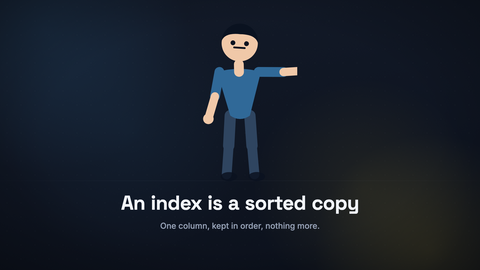
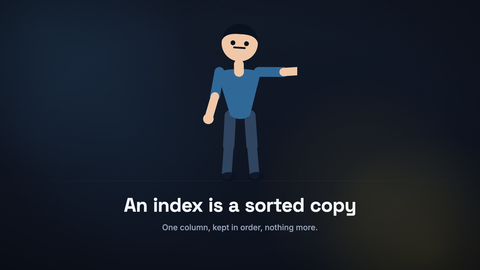
snippets: stop offering runtimes a template cannot satisfy, and free the lower third from the camera
Three things were stopping clips at the plan stage, none of them mysterious.

A story was created at a twenty-second runtime from the studio. Twenty seconds
is about fifty-eight words; the story template is built from eight beats and
its own validator demands ten words each. There is no plan that satisfies both,
so the model was corrected three times toward a target that did not exist and
the run died having spent a chunk of the day's tokens finding out. Templates
now declare the runtime they can actually satisfy, the spec rejects a shorter
one immediately with the arithmetic in the message, and the studio's picker
only offers what the chosen template can do — plus a two-minute option, which
`story` needed and nothing offered.

Snippet planning also moves to gpt-4o-mini. Groq's free tier is 100k tokens a
day and one snippet plan is about 14k, so a handful of clips exhausts it and
every later plan fails on a 429 that reads like a bug in the planner. That is
exactly how the day went.

Finally, the story template's lower third rode the camera. It was laid out in
world space, so a push scaled it outward and down, through the band the
burned-in captions occupy — the finished clip had its own supporting line
printed across the karaoke captions on five shots of eight. A lower third does
not move with the camera in any film, and keeping it in frame space inside the
caption-safe margin is both the right grammar and the only way it cannot
collide.

Changed region(s): [[0.25, 0.7111, 0.75, 0.8], [0.3125, 0.8296, 0.6875, 0.8593]]

diff --git a/studio/src/pages/SnippetsPage.tsx b/studio/src/pages/SnippetsPage.tsx
@@ -31,10 +31,14 @@ const QUIET_BTN = "rounded px-2 py-1 text-ink-500 hover:bg-ink-800 hover:text-in
 
 // Runtimes are targets the plan aims at, not guarantees: the model writes to
 // what the topic needs and can run over, so the labels say "about".
+/** The shared default when a template does not ask for its own. */
+const DEFAULT_TARGET_SEC = 45;
+
 const TARGETS = [
   { sec: 20, label: "~20s", hint: "One idea" },
   { sec: 45, label: "~45s", hint: "Idea + example" },
   { sec: 75, label: "~75s", hint: "Walk it through" },
+  { sec: 120, label: "~2 min", hint: "A directed short with an arc" },
 ];
 
 /**
@@ -267,7 +271,7 @@ export function SnippetsPage() {
   const [prompt, setPrompt] = useState("");
   const [title, setTitle] = useState("");
   const [template, setTemplate] = useState<string | null>(null);
-  const [targetSec, setTargetSec] = useState(45);
+  const [targetSec, setTargetSec] = useState<number | null>(null);
   const [captions, setCaptions] = useState<"off" | "on">("off");
   const [mode, setMode] = useState<"dark" | "light">("dark");
   const [busy, setBusy] = useState(false);
@@ -284,6 +288,29 @@ export function SnippetsPage() {
   // choice the user has no opinion about yet.
   const chosen = template ?? templates.data?.[0]?.name ?? null;
   const chosenTemplate = templates.data?.find((t) => t.name === chosen);
+
+  /**
+   * The runtimes this template can actually satisfy.
+   *
+   * Not every template can be any length. `story` is built from eight or more
+   * beats, so a twenty-second story is not a short clip — it is a plan whose
+   * own rules contradict each other, and it fails after three correction
+   * rounds having spent a chunk of the day's tokens finding out. Offering the
+   * option was the bug; the picker now only shows what the template can do.
+   */
+  const runtimes = TARGETS.filter((t) => t.sec >= (chosenTemplate?.min_target_sec ?? 0));
+  // Prefer the template's own default, then the shared one if this template
+  // can satisfy it, and only then the shortest it can. Falling straight to the
+  // shortest made every template default to the briefest clip it allowed.
+  const fallbackRuntime =
+    chosenTemplate?.default_target_sec ||
+    runtimes.find((t) => t.sec === DEFAULT_TARGET_SEC)?.sec ||
+    runtimes[0]?.sec ||
+    DEFAULT_TARGET_SEC;
+  // An explicit choice wins, but only while it is still valid for the template
+  // the user has since picked.
+  const effectiveTargetSec =
+    targetSec !== null && runtimes.some((t) => t.sec === targetSec) ? targetSec : fallbackRuntime;
 
   /**
    * Picking a template fills the prompt with that template's own example.
@@ -319,13 +346,14 @@ export function SnippetsPage() {
         prompt: text,
         title: title.trim() || undefined,
         template: chosen,
-        target_sec: targetSec,
+        target_sec: effectiveTargetSec,
         captions,
         mode,
         plan_only: planOnly,
       });
       setPrompt("");
       setTitle("");
+      setTargetSec(null);
       setOpen(created.id);
       snippets.reload();
     } catch (err) {
@@ -391,9 +419,19 @@ export function SnippetsPage() {
 
         <div className="mt-3 flex flex-wrap items-center gap-3">
           <Segmented
-            value={targetSec}
+            value={effectiveTargetSec}
             onChange={setTargetSec}
-            options={TARGETS.map((t) => ({ value: t.sec, label: t.label, hint: t.hint }))}
+            options={
+              runtimes.length > 0
+                ? runtimes.map((t) => ({ value: t.sec, label: t.label, hint: t.hint }))
+                : [
+                    {
+                      value: fallbackRuntime,
+                      label: `~${fallbackRuntime}s`,
+                      hint: "This template's own length",
+                    },
+                  ]
+            }
           />
           <Segmented
             value={mode}

diff --git a/studio/src/pages/SnippetsPage.test.tsx b/studio/src/pages/SnippetsPage.test.tsx
@@ -18,6 +18,8 @@ const TEMPLATES: SnippetTemplateInfo[] = [
     description: "An editor opens, code types itself in, and the terminal runs it for real.",
     example: "How for loops work in Python",
     shows_code: true,
+    min_target_sec: 0,
+    default_target_sec: 0,
   },
   {
     name: "whiteboard",
@@ -25,6 +27,8 @@ const TEMPLATES: SnippetTemplateInfo[] = [
     description: "A hand-drawn board that fills in as you talk.",
     example: "Why HTTP caching matters",
     shows_code: false,
+    min_target_sec: 0,
+    default_target_sec: 0,
   },
 ];
 
@@ -210,4 +214,38 @@ it("sends an edited title, and omits an empty one", async () => {
   fireEvent.click(screen.getByRole("button", { name: "Generate clip" }));
   await waitFor(() => expect(create).toHaveBeenCalledTimes(2));
   expect(create.mock.calls[1][0].title).toBe("My Own Title");
+});
+
+// A template that cannot be short must not be offered a short runtime. Offering
+// one cost a real user three correction rounds and a day's token budget to find
+// out that eight beats do not fit in twenty seconds.
+it("only offers runtimes the chosen template can satisfy", async () => {
+  vi.spyOn(api, "snippetTemplates").mockResolvedValue([
+    ...TEMPLATES,
+    {
+      name: "story",
+      title: "Directed short",
+      description: "A one-to-two-minute piece.",
+      example: "How a database index finds your row",
+      shows_code: false,
+      min_target_sec: 60,
+      default_target_sec: 90,
+    },
+  ]);
+  vi.spyOn(api, "snippets").mockResolvedValue(SNIPPETS);
+  vi.spyOn(api, "runStatus").mockResolvedValue({ running: false });
+
+  renderPage();
+  await screen.findByText("Directed short");
+
+  // The short runtimes are on offer for the default template...
+  expect(screen.queryByRole("button", { name: "~20s" })).toBeTruthy();
+
+  fireEvent.click(screen.getByRole("button", { name: /Directed short/ }));
+
+  // ...and gone once a template that cannot be short is chosen.
+  expect(screen.queryByRole("button", { name: "~20s" })).toBeNull();
+  expect(screen.queryByRole("button", { name: "~45s" })).toBeNull();
+  expect(screen.queryByRole("button", { name: "~75s" })).toBeTruthy();
+  expect(screen.queryByRole("button", { name: "~2 min" })).toBeTruthy();
 });

diff --git a/renderer/src/components/StoryScene.tsx b/renderer/src/components/StoryScene.tsx
@@ -4,6 +4,7 @@ import {FPS} from '../types';
 import {ResolvedTheme} from '../theme/theme';
 import {FIGURE_BOX, figureFor, type FigurePalette} from './artwork';
 import {CAST_FEET, CAST_VIEW, Character, livePose, poseByName, type CastPalette, type Expression} from './cast';
+import {CAPTION_SAFE, FRAME_H, SAFE_X} from './Stage';
 import {WORLD, camAt, camTransform, parallaxCam} from './camera';
 
 // StoryScene is one shot of a directed piece.
@@ -277,14 +278,23 @@ export const StoryScene: React.FC<{
           </div>
         )}
 
-        {/* Type: a centred lower third, or the middle of the stage when there
-            is nothing else on it. */}
+      </AbsoluteFill>
+
+      {/* Type is a lower third, and a lower third does not ride the camera.
+          Keeping it in world space had it drift and — worse — scale outward
+          under a push, straight through the band the burned-in captions live
+          in. It is frame-space now, inside the caption-safe margin, which is
+          both correct film grammar and the only way it can be guaranteed not
+          to collide. */}
+      <AbsoluteFill style={{pointerEvents: 'none'}}>
         <div
           style={{
             position: 'absolute',
-            left: WORLD.w * 0.1,
-            width: WORLD.w * 0.8,
-            top: plan.typeCentred ? WORLD.h * 0.4 : WORLD.h * BAND.typeY,
+            left: SAFE_X,
+            right: SAFE_X,
+            ...(plan.typeCentred
+              ? {top: '38%'}
+              : {bottom: CAPTION_SAFE + 28}),
             textAlign: 'center',
           }}
         >

diff --git a/studio/src/api/schema.d.ts b/studio/src/api/schema.d.ts
@@ -245,6 +245,8 @@ export interface components {
             description: string;
             example: string;
             shows_code: boolean;
+            min_target_sec?: number;
+            default_target_sec?: number;
         };
         SnippetSummary: {
             id: string;

diff --git a/internal/pipeline/snippet.go b/internal/pipeline/snippet.go
@@ -126,6 +126,14 @@ func (s SnippetSpec) Validate() error {
 	if s.TargetSec != 0 && (s.TargetSec < minSnippetTargetSec || s.TargetSec > maxSnippetTargetSec) {
 		return fmt.Errorf("target_sec %d is out of range (%d-%d)", s.TargetSec, minSnippetTargetSec, maxSnippetTargetSec)
 	}
+	// Caught here rather than three correction rounds later: a runtime below a
+	// template's floor is not a clip that plans badly, it is one whose rules
+	// contradict each other, and the model cannot be told anything that helps.
+	if tpl, ok := SnippetTemplates[s.Template]; ok && s.TargetSec != 0 &&
+		tpl.MinTargetSec > 0 && s.TargetSec < tpl.MinTargetSec {
+		return fmt.Errorf("the %s template needs at least %d seconds (asked for %d) — it is built from %d or more beats and a shorter clip cannot fund them",
+			s.Template, tpl.MinTargetSec, s.TargetSec, minStoryBeats)
+	}
 	return nil
 }
 
@@ -457,6 +465,12 @@ style:
   captions: "on"
 pipeline:
   video_only: true
+  # Snippet planning runs on gpt-4o-mini rather than the default Groq model.
+  # Groq's free tier is 100k tokens per day and one snippet plan is ~14k, so a
+  # handful of clips — or one clip whose plan needs correction rounds —
+  # exhausts the day and every later plan fails on a 429 that looks like a bug
+  # in the planner. gpt-4o-mini plans these as well and is not rationed.
+  llm_content: openai/gpt-4o-mini
 `
 
 // EnsureSnippetsCourse creates (or opens) the synthetic snippets course under

diff --git a/internal/studio/snippets.go b/internal/studio/snippets.go
@@ -34,6 +34,13 @@ type SnippetTemplateInfo struct {
 	// ShowsCode marks templates whose clips execute code for real, which is
 	// the difference the gallery needs to communicate.
 	ShowsCode bool `json:"shows_code"`
+	// MinTargetSec and DefaultTargetSec are the runtimes this template can
+	// actually satisfy. The picker needs them: `story` is built from eight or
+	// more beats, so a twenty-second story is not a short clip, it is a plan
+	// whose own rules contradict each other. Offering the option at all cost a
+	// user three correction rounds and a day's token budget to find out.
+	MinTargetSec     int `json:"min_target_sec"`
+	DefaultTargetSec int `json:"default_target_sec"`
 }
 
 // SnippetSummary is one row of the snippet list.
@@ -86,11 +93,13 @@ func (s *Server) handleSnippetTemplates(w http.ResponseWriter, _ *http.Request) 
 	out := make([]SnippetTemplateInfo, 0, len(pipeline.SnippetTemplates))
 	for _, t := range pipeline.SnippetTemplateList() {
 		out = append(out, SnippetTemplateInfo{
-			Name:        t.Name,
-			Title:       t.Title,
-			Description: t.Description,
-			Example:     t.Example,
-			ShowsCode:   t.NeedsCode,
+			Name:             t.Name,
+			Title:            t.Title,
+			Description:      t.Description,
+			Example:          t.Example,
+			ShowsCode:        t.NeedsCode,
+			MinTargetSec:     t.MinTargetSec,
+			DefaultTargetSec: t.DefaultTargetSec,
 		})
 	}
 	writeJSON(w, http.StatusOK, out)

diff --git a/internal/pipeline/snippet_templates.go b/internal/pipeline/snippet_templates.go
@@ -44,6 +44,14 @@ type SnippetTemplate struct {
 	// well above the shared one needs its own default, or the standard 45s
 	// budget cannot fund the beats its own validator demands.
 	DefaultTargetSec int
+	// MinTargetSec is the shortest runtime this template can actually satisfy
+	// (0 = the shared floor). A default is a suggestion and callers override it;
+	// this is the arithmetic. `story` needs eight beats, and eight beats of the
+	// ten-word minimum cannot be written inside a twenty-second word budget — so
+	// asking for one is not a plan that comes out badly, it is a plan that
+	// cannot come out at all, and the correction loop burns three rounds and a
+	// token budget discovering that.
+	MinTargetSec int
 
 	// Plan produces the clip's design. Nil uses planSnippetDefault, which
 	// renders PromptFile and decodes a SnippetPlan — enough for every

diff --git a/internal/pipeline/snippet_story.go b/internal/pipeline/snippet_story.go
@@ -50,9 +50,12 @@ func init() {
 		// budget eight beats could only be funded by writing every one of them
 		// at the ten-word minimum.
 		DefaultTargetSec: 90,
-		Plan:             planStorySnippet,
-		Validate:         validateStoryPlan,
-		Scenes:           storyScenes,
+		// Eight beats is the floor; at 175 wpm a minute is the least that funds
+		// them at a length worth watching.
+		MinTargetSec: 60,
+		Plan:         planStorySnippet,
+		Validate:     validateStoryPlan,
+		Scenes:       storyScenes,
 		PromptData: func(_ SnippetSpec, _ config.Config) map[string]any {
 			return map[string]any{
 				"MinStoryBeats": minStoryBeats,

diff --git a/internal/studio/openapi.go b/internal/studio/openapi.go
@@ -198,7 +198,8 @@ const openAPISpec = `{
         "type": "object",
         "properties": {
           "name": {"type": "string"}, "title": {"type": "string"}, "description": {"type": "string"},
-          "example": {"type": "string"}, "shows_code": {"type": "boolean"}
+          "example": {"type": "string"}, "shows_code": {"type": "boolean"},
+          "min_target_sec": {"type": "integer"}, "default_target_sec": {"type": "integer"}
         },
         "required": ["name", "title", "description", "example", "shows_code"]
       },
